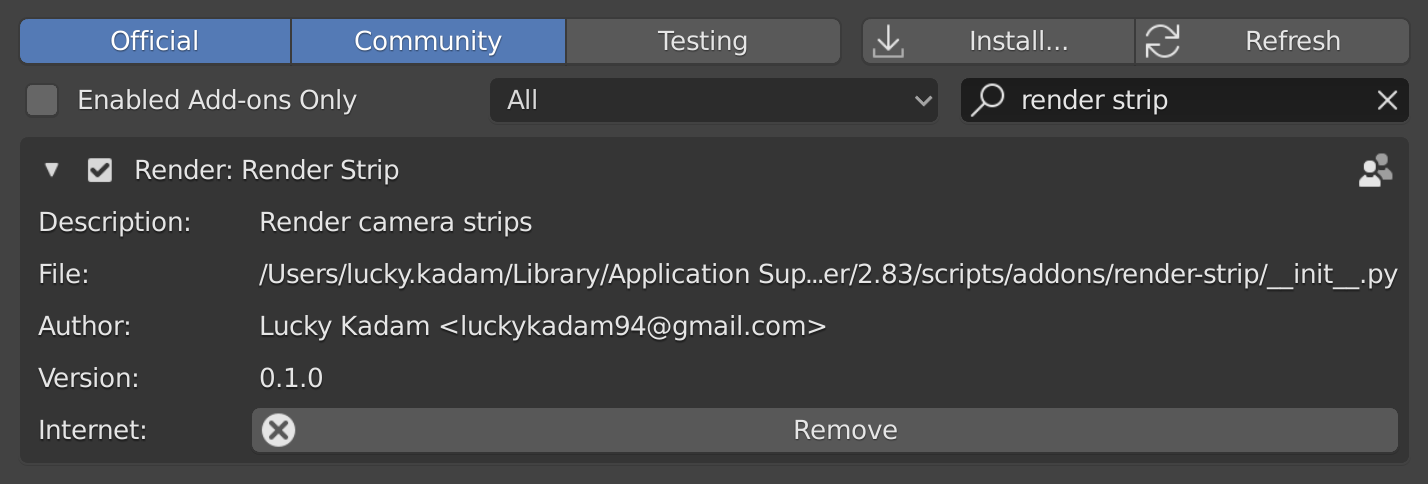
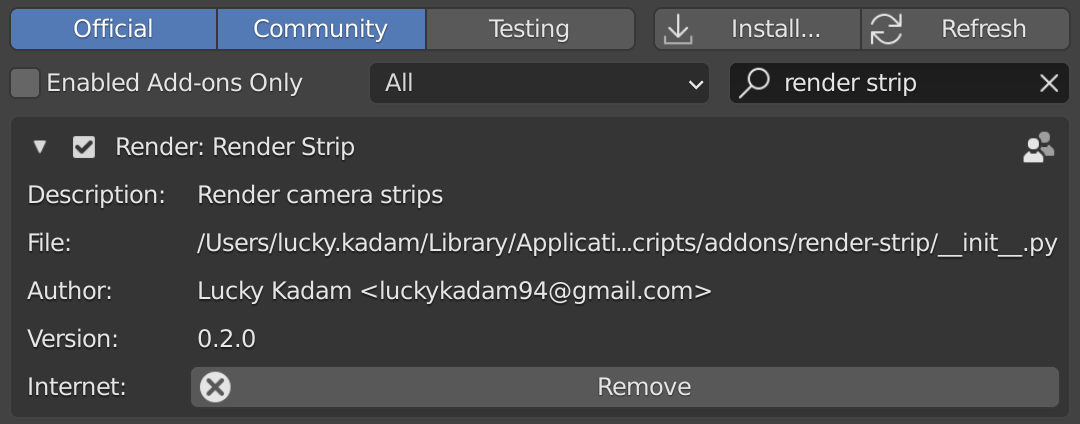
update readme images to 0.2

diff --git a/README.md b/README.md
@@ -23,7 +23,7 @@ You should now see Render Strip tab in Render Properties.
 3. Select the output path.
 4. Hit Render.
 
-<img width=280 src="images/strip.png">
+<img width=320 src="images/strips.png">
 
 ## Resources
 
